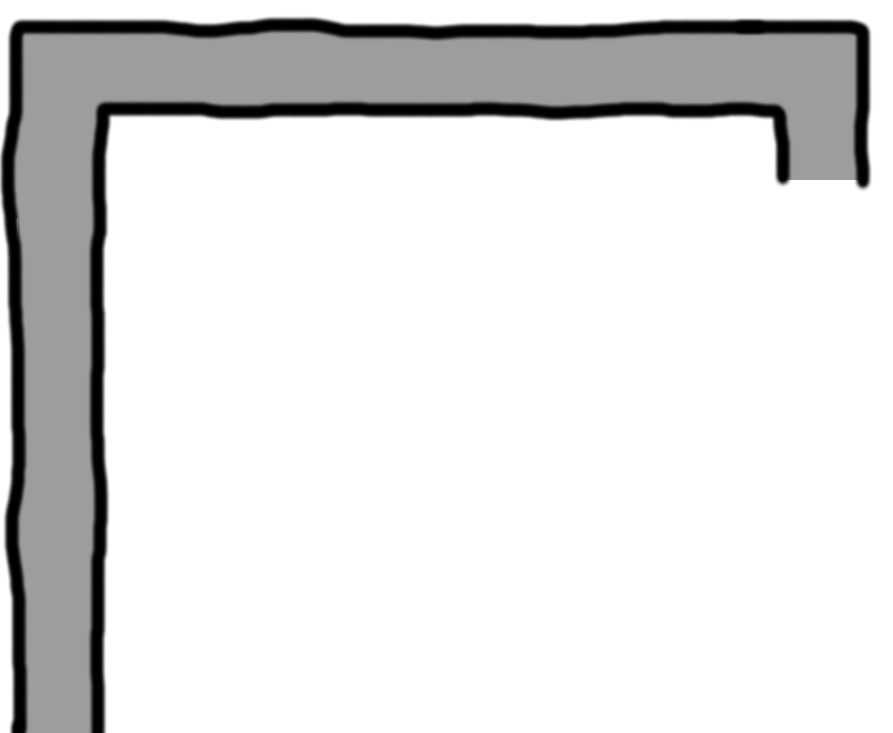
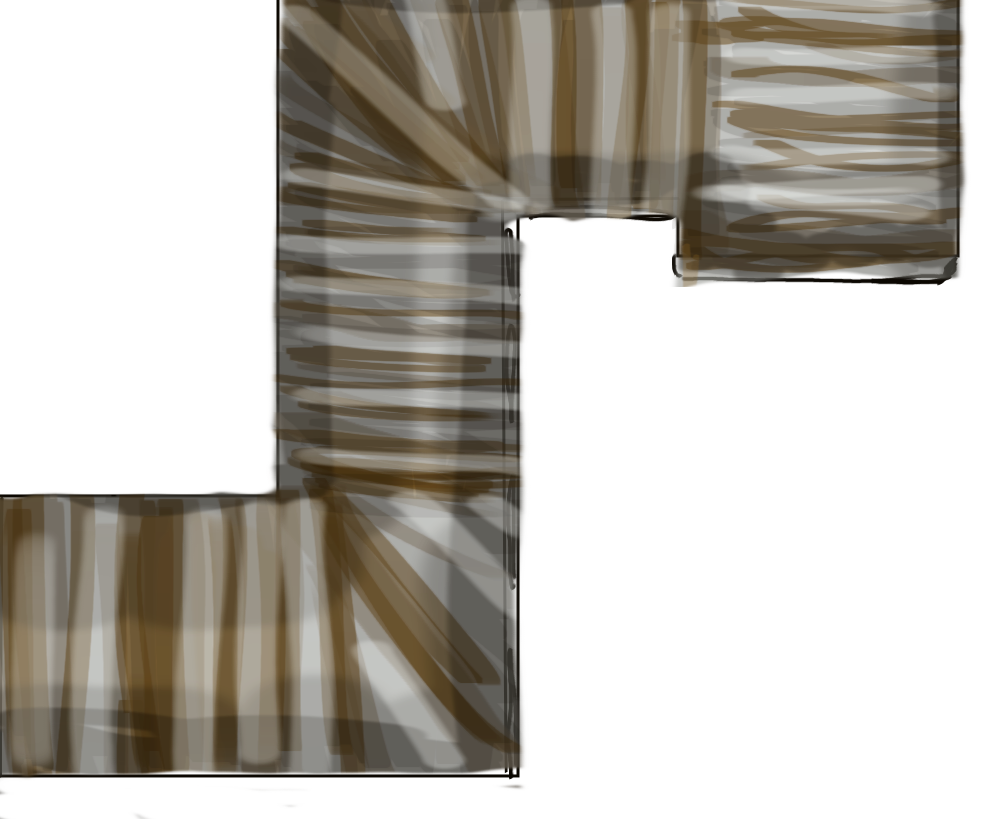
New conveyor belt

diff --git a/core/src/lando/systems/trainjam2016/entities/Conveyor.java b/core/src/lando/systems/trainjam2016/entities/Conveyor.java
@@ -32,23 +32,27 @@ public class Conveyor extends Item {
         float dx = -(item.shape[0].length * Const.cellSize) / 2f;
         float dy = -(item.shape.length * Const.cellSize) / 2f;
 
-        // moves the center of an item between these points over 10 seconds:
-        // (60,0)
-        // (60,660)
-        // (820,660)
-        // (820,560)
+        // moves the center of an item between these points:
+        // (0,195)
+        // (395,195)
+        // (395,720)
+        // (825,720)
+        // (825,550)
 
-        float totalDistance = 660f + 760f + 100f;
-        float leg1 = (660f / totalDistance) * travelTime.floatValue();
-        float leg2 = (760f / totalDistance) * travelTime.floatValue();
-        float leg3 = (100f / totalDistance) * travelTime.floatValue();
+        float totalDistance = 395f + 525f + 430f + 170f;
+        float leg1 = (395f / totalDistance) * travelTime.floatValue();
+        float leg2 = (525f / totalDistance) * travelTime.floatValue();
+        float leg3 = (430f / totalDistance) * travelTime.floatValue();
+        float leg4 = (170f / totalDistance) * travelTime.floatValue();
         Vector2 ret;
         if (age < leg1) {
-            ret = new Vector2(60f + dx, (age / leg1) * 660f + dy);
+            ret = new Vector2((age / leg1) * 395f + dx, 195f + dy);
         } else if (age < leg1 + leg2) {
-            ret = new Vector2(60f + ((age - leg1) / leg2) * 760f + dx, 660f + dy);
+            ret = new Vector2(395f + dx, 195f + ((age - leg1) / leg2) * 525f + dy);
         } else if (age < leg1 + leg2 + leg3) {
-            ret = new Vector2(820f + dx, 660f - ((age - leg1 - leg2) / leg3) * 100f + dy);
+            ret = new Vector2(395f + ((age - leg1 - leg2) / leg3) * 430f + dx, 720f + dy);
+        } else if (age < leg1 + leg2 + leg3 + leg4) {
+            ret = new Vector2(825f + dx, 720f - ((age - leg1 - leg2 - leg3) / leg4) * 170f + dy);
         } else {
             ret = null;
         }
